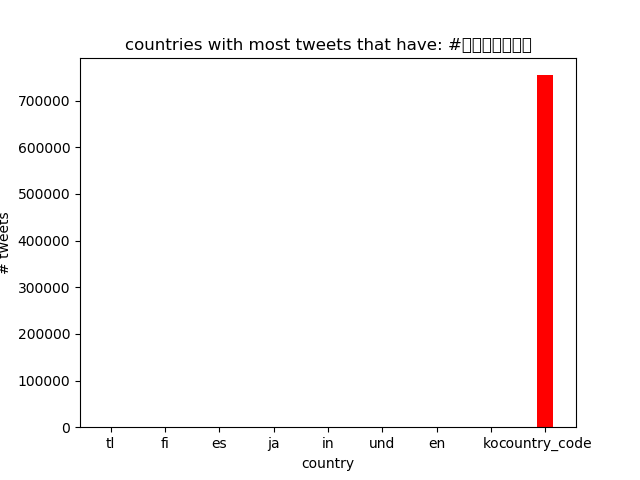
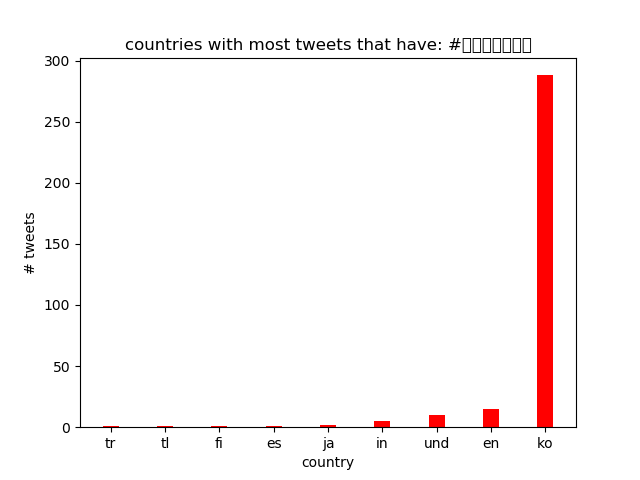
fourth

diff --git a/src/map.py b/src/map.py
@@ -66,7 +66,7 @@ with zipfile.ZipFile(args.input_path) as archive:
                         tweet['place']['country_code']
                         country_code = tweet['place']['country_code']
                         if hashtag in text:
-                            counter_country[hashtag][lang] += 1
+                            counter_country[hashtag][country_code] += 1
                         counter_lang['_all'][lang] += 1
                     except:
                         country_code='Name'

diff --git a/src/visualize.py b/src/visualize.py
@@ -39,17 +39,19 @@ for p, q in top_11:
     k.append(p)
     v.append(q)
 
+print(k)
+print(v)
 # removing 'country_code'
-if k[0] == "country_code":
-    k = k[1:]
-    v = v[1:]
+if k[-1] == "country_code":
+    k = k[:-1]
+    v = v[:-1]
 else:
     k = k[1:]
     v = v[1:]
 
 # test
-for i in range(len(k)):
-    print(k[i], v[i])
+print(k)
+print(v)
 
 # importing needed libraries
 import matplotlib

diff --git a/README.md b/README.md
@@ -17,13 +17,20 @@ English has the most tweets with #coronavirus. The second largest number of twee
 
 The bar graph above has languages on the x axis and number of tweets with #코로나바이러스 on the y axis.
 
-English has the most tweets with #coronavirus. The second largest number of tweets with #coronavirus is Spanish, with less than half of #coronavirus English tweets. German has the third most. After this, the number of tweets reduces significantly for other languages.
+As one would expect, Korean has the most tweets with #코로나바이러. The second largest number of tweets with #코로나바이러 is in English, with a much smaller number of tweets compared to Korean.
  
 #### countries with most tweets that have #coronavirus
 
 <img src=eng_country_plot3.png width=100% />
 
+The bar graph above has countries on the x axis and number of tweets with #coronavirus on the y axis.
+
+The US has the most tweets with #coronavirus. The second largest number of tweets with #coronavirus is in India. England is a close third. 
 
 #### countries with most tweets that have #코로나바이러스
 
-<img src=kor_country_plot3.png width=100% />
+<img src=kor_country_plot4.png width=100% />
+
+The bar graph above has countries on the x axis and number of tweets with #coronavirus on the y axis.
+
+Korea has the most tweets with #코로나바이러. The second largest number of tweets with #coronavirus is in Hong Kong. But the number of tweets in the other countries is not eveven close to that in Korea. 
